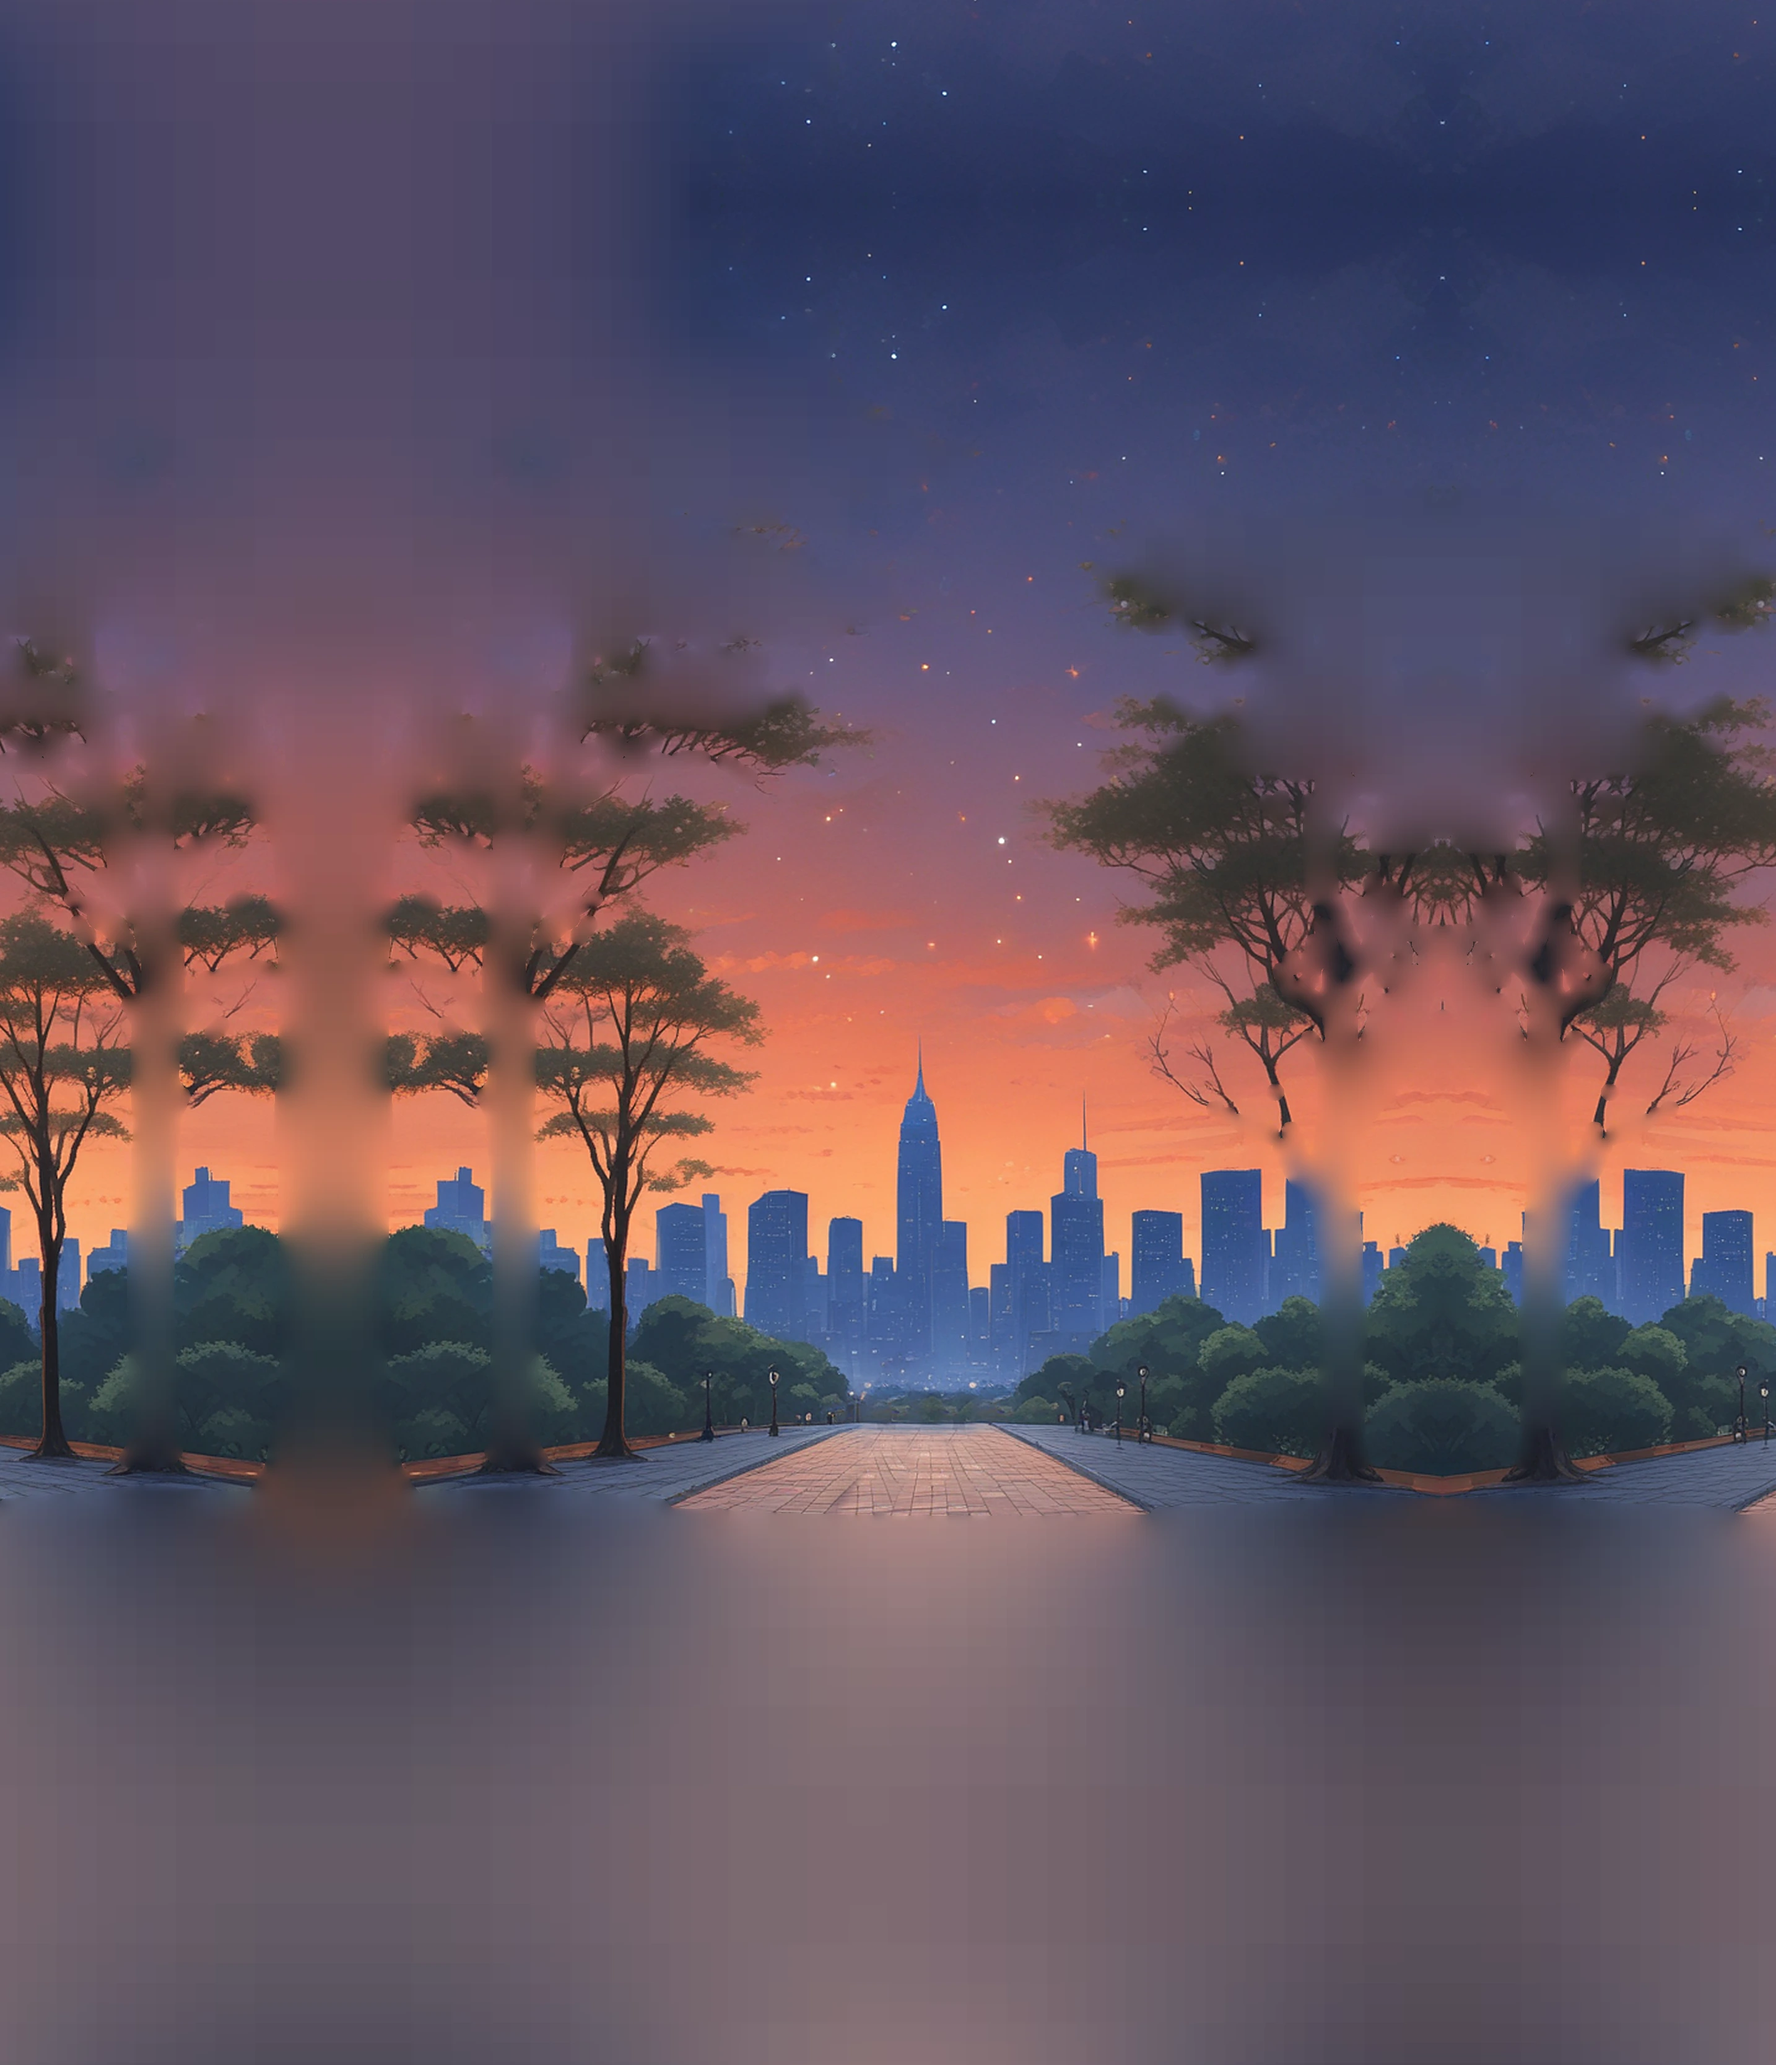
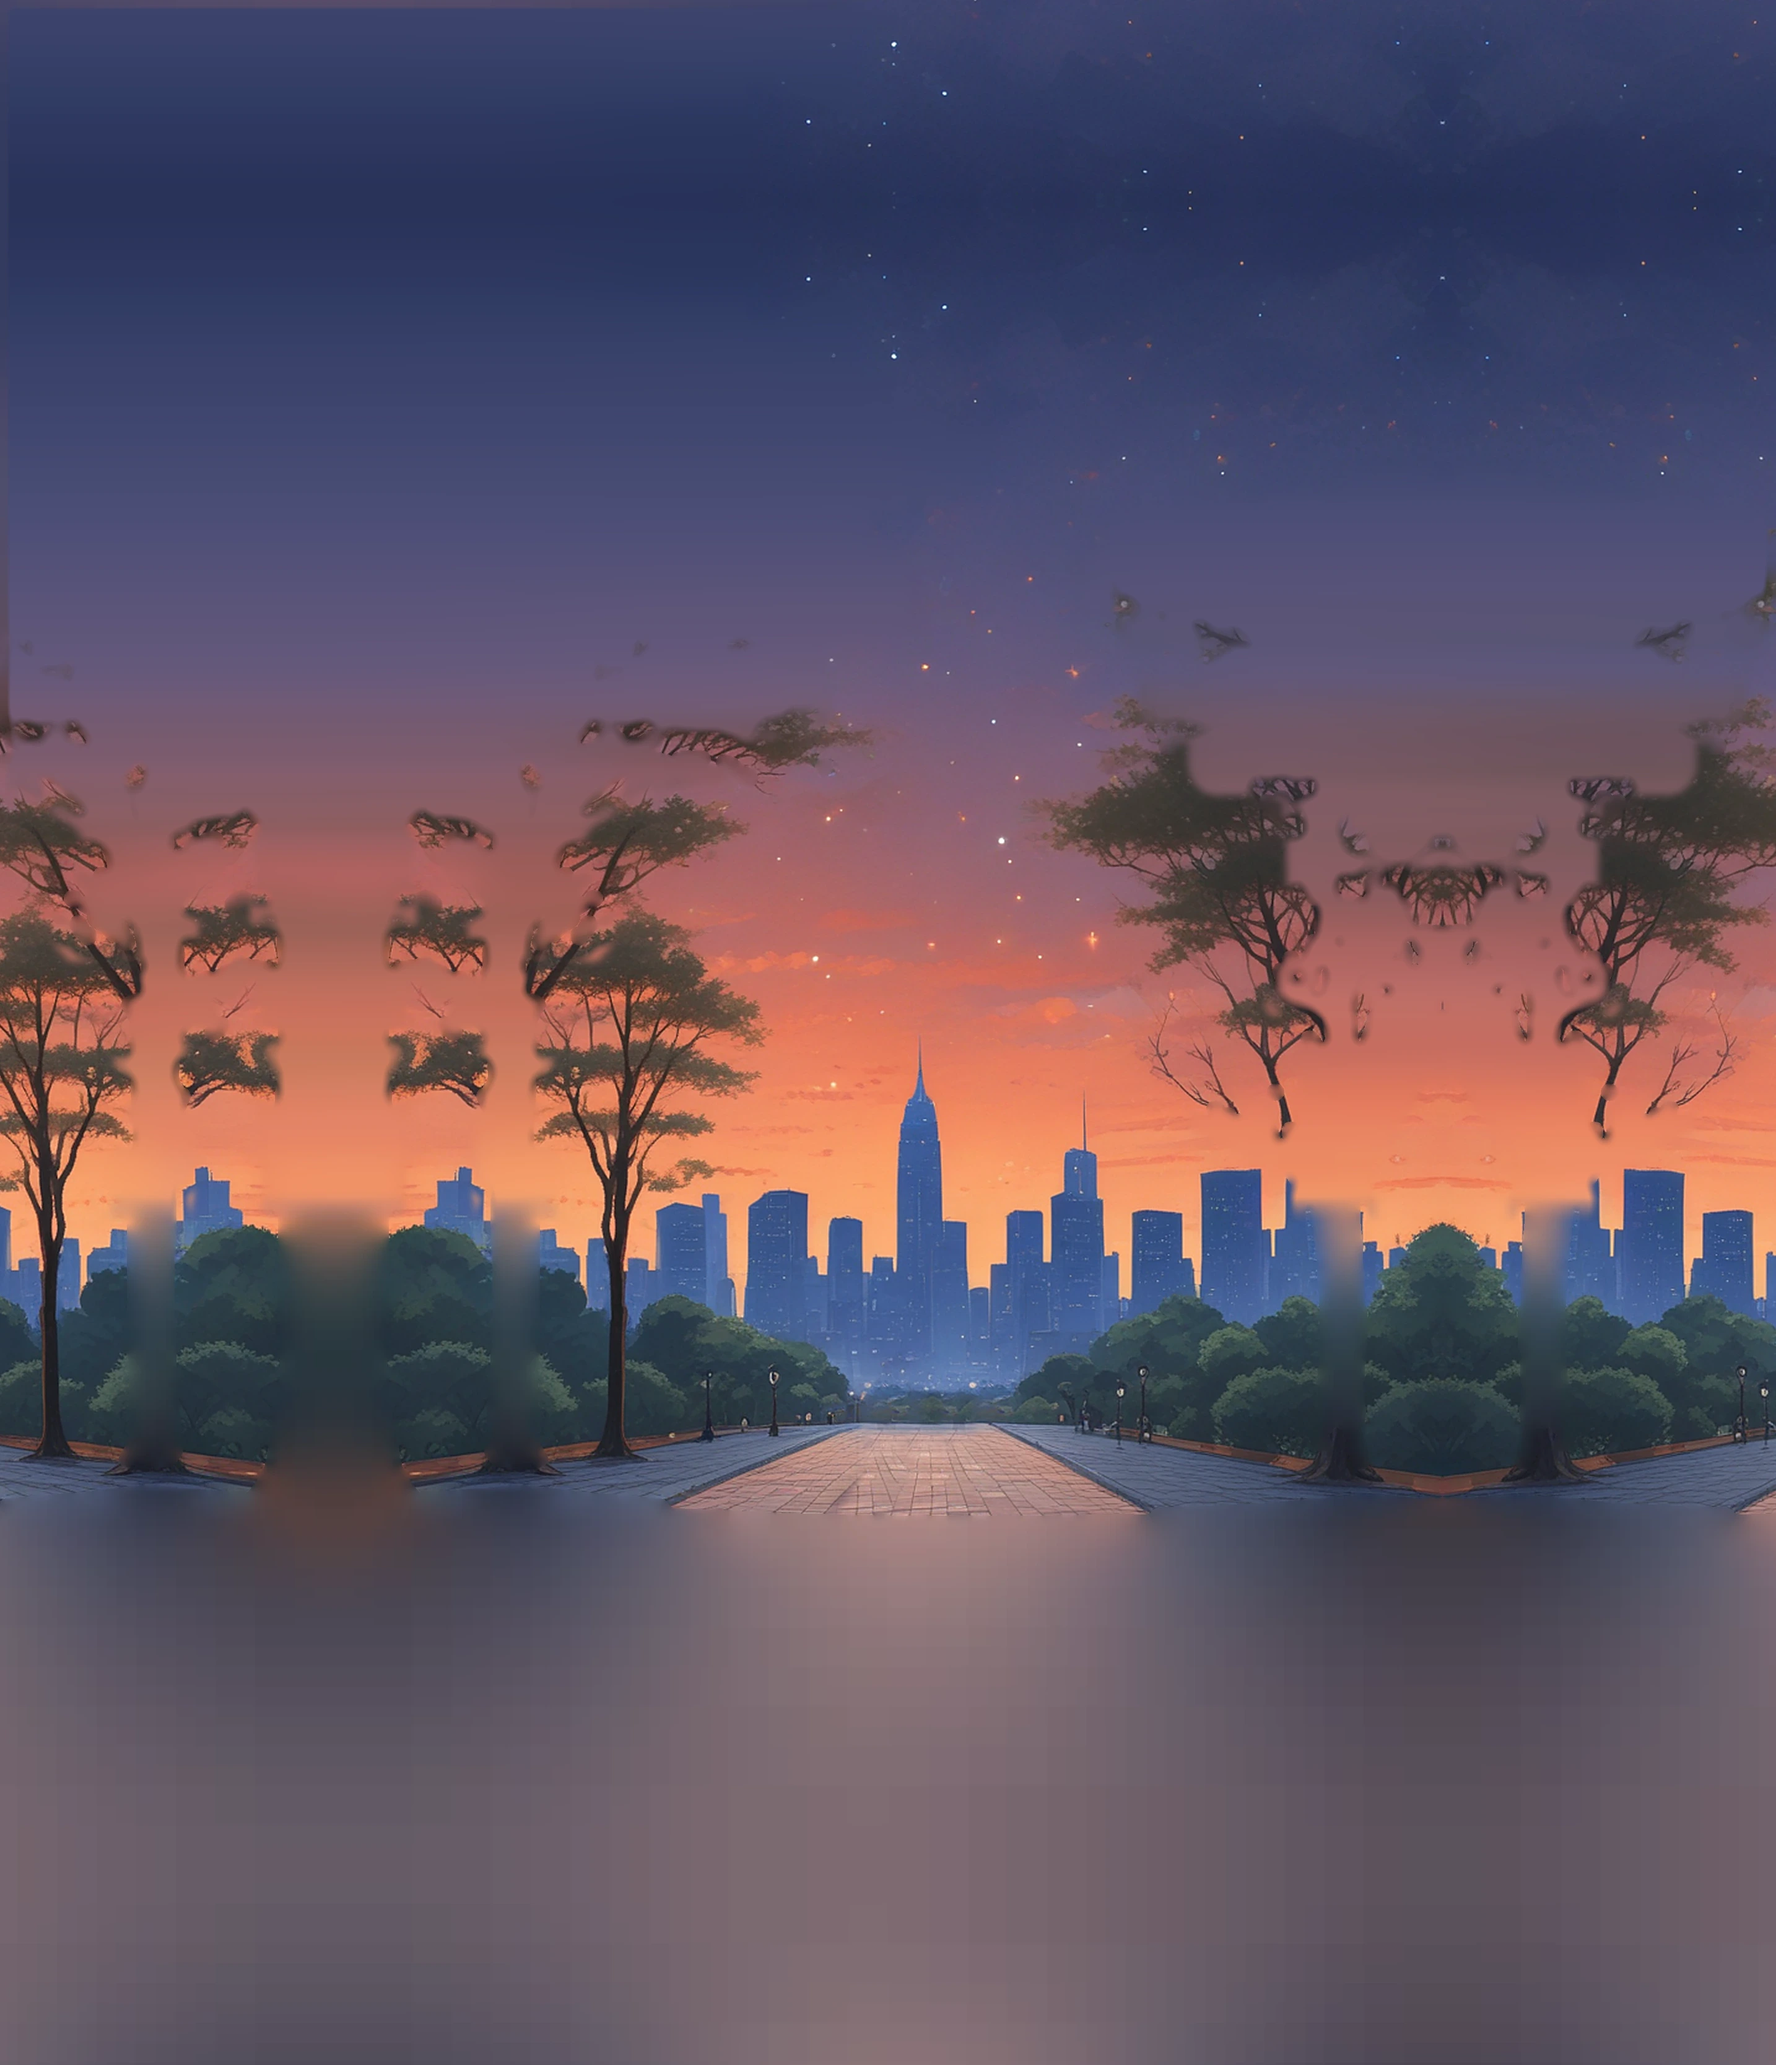
never-looks-up s2e1: repaint the dusk-city-park sky behind the near trees (no blurred tree twins), baton window, slower hat, 0.4 s fuse cut-in
tools/clean-sky-behind-trees.py: the env builder's inpaint left blurred trunks and canopy in the sky card behind the
near tree cards; a camera off the painting's camera showed them as ghosts beside the trees.

Claude-Session: https://claude.ai/code/session_01KjyEUN9VSVQqEEzx5Ayrxt

diff --git a/tools/clean-sky-behind-trees.py b/tools/clean-sky-behind-trees.py
@@ -1,0 +1,106 @@
+#!/usr/bin/env python3
+"""Clean an env's sky card behind its near tree cards (first used on dusk-city-park, 9 Nov 2026).
+
+The env builder's inpaint leaves blurred tree trunks and canopy in the sky card behind the near tree cards. When the
+camera moves off the painting's camera, the tree cards slide over the sky (up to ~170 px of the painting for a camera
+5 m forward) and those blurred twins show as ghosts beside the trees. Above the skyline the sky is a smooth gradient,
+so every sky-card pixel under (and just around) a near tree card is repainted from the open sky around it (not
+masked, not darker than its row's sky: no far tree, no building) by a push-pull fill along the row (the sky changes down
+the rows, not across), softened down the rows and feathered into the untouched pixels. Rows below --until (the skyline and bushes) are left as they are.
+
+  python3 tools/clean-sky-behind-trees.py assets/environments/<env> --until <painting y> [--grow 24] [--dry out.png]
+"""
+import argparse, json, os
+import numpy as np
+from PIL import Image, ImageFilter
+
+ap = argparse.ArgumentParser()
+ap.add_argument("env")
+ap.add_argument("--until", type=int, required=True, help="painting row where the skyline starts: rows below stay")
+ap.add_argument("--grow", type=int, default=24, help="px the tree mask grows to take in the inpaint's blur halo")
+ap.add_argument("--dry", help="write the cleaned sky here instead of over the card")
+ap.add_argument("--sharp-lo", type=float, default=10, help="detail below this is a blurred twin: repaint")
+ap.add_argument("--sharp-hi", type=float, default=22, help="detail above this is a real far tree: keep")
+a = ap.parse_args()
+
+e = json.load(open(os.path.join(a.env, "env.json")))
+px, py = e["pad"]
+card = next(c for c in e["cards"] if c.get("sky"))
+src = os.path.join(a.env, card["src"])
+sky = np.array(Image.open(src).convert("RGB")).astype(np.float32)
+H, W = sky.shape[:2]
+
+mask = np.zeros((H, W), np.uint8)
+for c in e["cards"]:
+    if c.get("sky"):
+        continue
+    al = np.array(Image.open(os.path.join(a.env, c["src"])).convert("RGBA"))[:, :, 3]
+    x0, y0, x1, y1 = c["rect"]
+    mask[y0 + py:y1 + py, x0 + px:x1 + px] = np.maximum(mask[y0 + py:y1 + py, x0 + px:x1 + px], (al > 12) * 255)
+mask = Image.fromarray(mask.astype(np.uint8))
+if a.grow:
+    mask = mask.filter(ImageFilter.MaxFilter(a.grow * 2 + 1))
+m = np.array(mask) > 0
+yend = min(H, a.until + py)
+
+lum = sky @ np.array([0.299, 0.587, 0.114], np.float32)
+known = ~m
+c0, c1 = px + int(e["size"][0] * 0.4), px + int(e["size"][0] * 0.6)   # the open sky in the middle of the painting
+for y in range(yend):                                         # open sky only: near the middle's colour (no far tree,
+    mid = known[y, c0:c1]                                     # no building)
+    if mid.sum() < 20:
+        continue
+    ref = np.median(sky[y, c0:c1][mid], 0)
+    known[y] &= np.linalg.norm(sky[y] - ref, axis=1) < 55
+known[yend:] = False
+
+def down(a):                                                  # halve along x only: the sky changes down the rows
+    w = a.shape[1]
+    a = np.pad(a, ((0, 0), (0, w % 2)) + ((0, 0),) * (a.ndim - 2))
+    return a.reshape(a.shape[0], a.shape[1] // 2, 2, *a.shape[2:]).sum(2)
+
+def up(a, w):
+    xs = (np.arange(w) + 0.5) / w * a.shape[1] - 0.5
+    i0 = np.clip(np.floor(xs).astype(int), 0, a.shape[1] - 1); i1 = np.clip(i0 + 1, 0, a.shape[1] - 1)
+    t = np.clip(xs - i0, 0, 1)[None, :, None]
+    return a[:, i0] * (1 - t) + a[:, i1] * t
+
+# push-pull fill along each row: average the row's open sky down a 1-D pyramid, then fill every hole from the
+# coarser level on the way up (a row with no open sky at all takes the nearest row's fill)
+S = sky[:yend]; K = known[:yend].astype(np.float32)
+C, Wt = [S * K[..., None]], [K]
+while C[-1].shape[1] > 1:
+    C.append(down(C[-1])); Wt.append(down(Wt[-1]))
+est = C[-1] / np.maximum(Wt[-1], 1e-6)[..., None]
+have = Wt[-1][:, 0] > 0
+rows = np.arange(yend)
+for ch in range(3):
+    est[:, 0, ch] = np.interp(rows, rows[have], est[have, 0, ch])
+for l in range(len(C) - 2, -1, -1):
+    u = up(est, C[l].shape[1])
+    wl = np.minimum(Wt[l], 1)[..., None]
+    est = np.where(Wt[l][..., None] > 0, C[l] / np.maximum(Wt[l], 1e-6)[..., None], 0) * wl + u * (1 - wl)
+k = 40                                                        # soften down the rows: no streaks
+pad = np.pad(est, ((k, k), (0, 0), (0, 0)), mode="edge")
+cs = np.concatenate([np.zeros((1,) + pad.shape[1:], np.float32), np.cumsum(pad, 0)], 0)
+fit = (cs[2 * k + 1:] - cs[:-2 * k - 1]) / (2 * k + 1)
+fit = np.array(Image.fromarray(np.clip(fit, 0, 255).astype(np.uint8)).filter(ImageFilter.GaussianBlur(8))).astype(np.float32)
+
+w = np.array(mask.filter(ImageFilter.GaussianBlur(6))).astype(np.float32) / 255
+# keep what is sharp: a far tree the inpaint carried on behind a near one stays, only the blurred twins go (a cut
+# along the mask left hard-edged blocks of canopy when the near tree slid off them)
+L = Image.fromarray(np.clip(lum, 0, 255).astype(np.uint8))
+lap = np.abs(np.array(L.filter(ImageFilter.Kernel((3, 3), [0, 1, 0, 1, -4, 1, 0, 1, 0], 1, 128))).astype(np.float32) - 128)
+detail = np.array(Image.fromarray(np.clip(lap * 8, 0, 255).astype(np.uint8)).filter(ImageFilter.GaussianBlur(10))).astype(np.float32)
+sharp = np.clip((detail - a.sharp_lo) / (a.sharp_hi - a.sharp_lo), 0, 1)
+w *= 1 - sharp
+w[yend:] = 0
+ramp = np.clip((yend - np.arange(H)) / 40.0, 0, 1)            # fade the repaint out over 40 rows above the skyline
+w *= ramp[:, None]
+out = sky.copy()
+out[:yend] = sky[:yend] * (1 - w[:yend, :, None]) + fit * w[:yend, :, None]
+
+img = Image.fromarray(np.clip(out, 0, 255).astype(np.uint8))
+dst = a.dry or src
+img.save(dst, quality=92) if dst.endswith(".webp") else img.save(dst)
+print(f"repainted {(w > 0.5).mean() * 100:.1f}% of {os.path.basename(src)} above painting row {a.until} -> {dst}")
